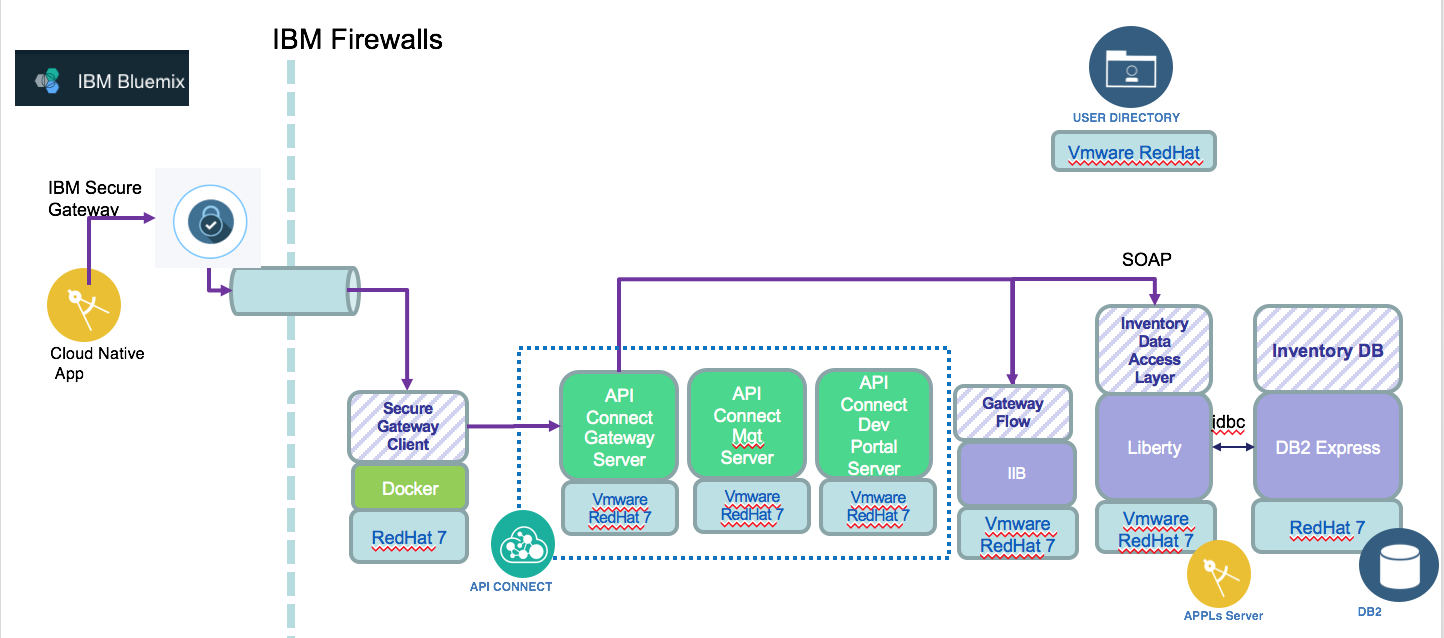
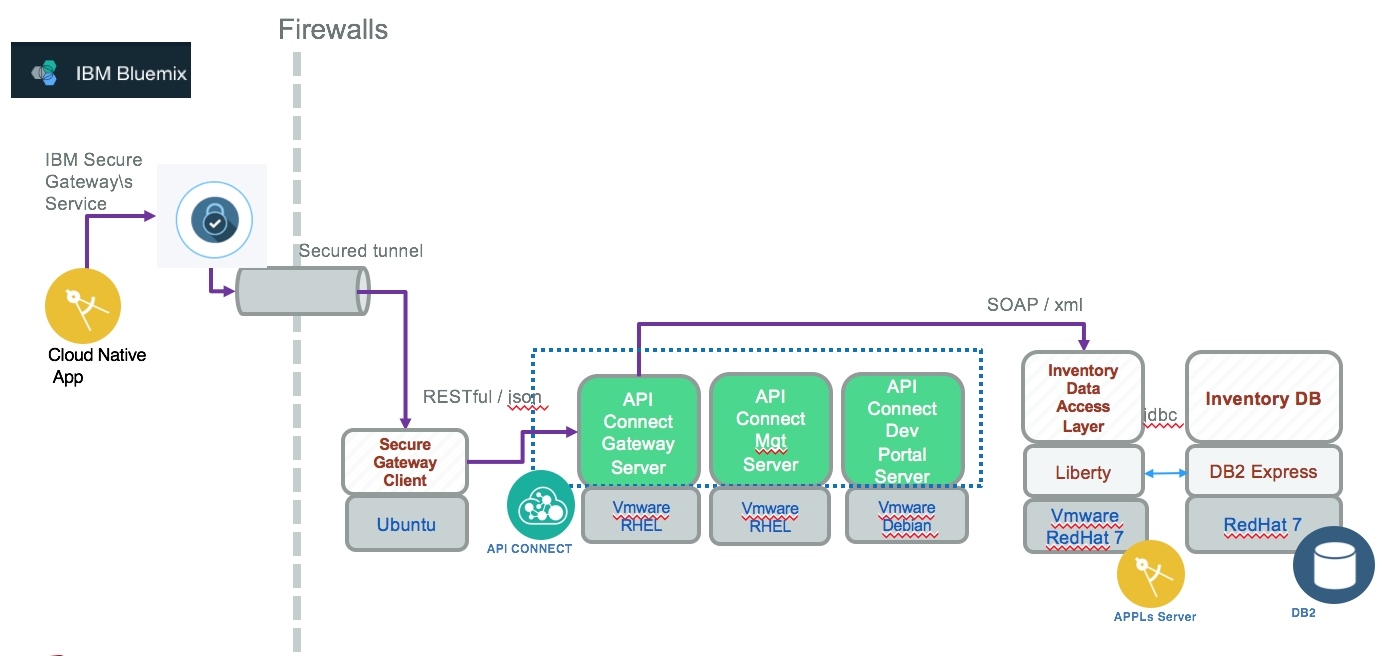
new schema and update readme

diff --git a/README.md b/README.md
@@ -3,25 +3,33 @@
 This project is part of the 'IBM Integration Reference Architecture' suite, available at [https://github.com/ibm-cloud-architecture/refarch-integration](https://github.com/ibm-cloud-architecture/refarch-integration)
 
 ## Goals
+This project includes the definition for the inventory API and guidance on how servers are configured and API definitions are done.
+
 The API definition exposes a set of RESTful services for managing a product inventory.
-![invprod](docs/inventory-product.png)
+![invprod](docs/inventory-product.png)  
+
 The API is defined and run on on-premise servers but exposed via secure connection to public cloud so born on cloud applications, like the simple [inventory app](https://github.com/ibm-cloud-architecture/refarch-caseinc-app), can leverage those APIs.
 
 ## Architecture
-As illustrated in the figure below, the Inventory database is not directly accessed by application who needs it, but via a SOA service data access layer developed with JAXWS.
-![Component view](docs/cp-phy-view.png)
-The SOAP interface needs to be mapped to REST api, and using a API economy paradigm, this API will become a product for the CASE Inc IT team.
+As illustrated in the figure below, the Inventory database is not directly accessed by application who needs it, but via a data access layer SOA service developed in Java using JAXWS.
+![Component view](docs/cp-phy-view.png)  
 
-Born on cloud app or micro services access the exposed RESful API using a Bluemix Secure Gateway service, which support the API Connect destination. For detail on how the secure gateway was configured see [note](https://github.com/ibm-cloud-architecture/refarch-integration-utilities/blob/master/docs/ConfigureSecureGateway.md)
+With new programming model to consume RESTful API, existing SOAP interfaces need to be mapped to RESTful apis, and using a API economy paradigm, those APIs will become a product managed by IBM API connect. The *CASE Inc IT team* wants to cover their cost and exposing API may generate a revenue stream.
+
+Born on Bluemix web apps or micro services access the exposed RESTful API using a Bluemix Secure Gateway service, which supports the API Connect destination definition. For detail on how the secure gateway was configured see [note](https://github.com/ibm-cloud-architecture/refarch-integration-utilities/blob/master/docs/ConfigureSecureGateway.md)
 
 The diagram below presents the item/{itemid} URL as defined in API Connect  
 ![](docs/item-id.png)
 
-## How the SOAP interface was mapped to API
+## Server configuration
+TBD
+
+## How the SOAP interface was mapped to RESTful API
 In order to map the SOAP service to a REST api, we followed the following steps:  
 1) create a REST API in the API Manager UI (see tutorial here: https://www.ibm.com/support/knowledgecenter/SSMNED_5.0.0/com.ibm.apic.apionprem.doc/tutorial_apionprem_expose_SOAP.html)
 2) Import the WSDL for the SOAP service in the "Services" component. This is basically an import from either a file or an url. We used the url option by pointing the dialog to on-premiseWebSphere Liberty server: http://172.16.254.44:9080/inventory/ws?WSDL.
 3) Create an assembly for each of the supported REST operations:
+
 ```
           title: operation-switch
           case:
@@ -55,7 +63,7 @@ For a get item by id the pattern is the same as illustrated in the image below:
 Using the REST input parameter, itemId, we need to use it for the SOAP request itemById.id element.:
 ![](docs/inputtosoap.png)
 
-The following diagram illustrates a mapping from the SOAP response of the itemById to the JSON document of the /item/{itemId} which is part of the new exposed API. 
+The following diagram illustrates a mapping from the SOAP response of the itemById to the JSON document of the /item/{itemId} which is part of the new exposed API.
 
 ![itemById](docs/rest2soap-mapping.png)
 
@@ -69,4 +77,4 @@ The connection between the external application and API Connect Gateway is using
 Reusing the devops approach as describe in [this asset](https://github.com/ibm-cloud-architecture/refarch-hybridcloud-blueportal-api/blob/master/HybridDevOpsForAPIC.pdf) ....
 
 ## How to leverage this asset
-On your own API connect installation import the [yaml](https://github.com/ibm-cloud-architecture/refarch-integration-api/blob/master/apiconnect/sample-inventory-api_1.0.0.yaml) delivered in this project.
+Using your own IBM API Connect instance import the [yaml](https://github.com/ibm-cloud-architecture/refarch-integration-api/blob/master/apiconnect/sample-inventory-api_1.0.0.yaml) delivered in this project.
